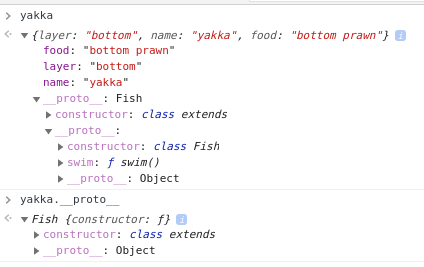
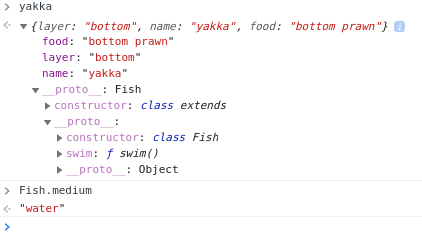
update

diff --git a/public/decorator.html b/public/decorator.html
@@ -5,8 +5,16 @@
         <pre>
             yakka is an instance of Fish
             Fish is an class object, and has constructor, which has been modified/extended by decorator
-            a new  food  field/property has been added, referring another original field 
-            all fields/properties are defiend at instance level, which is the same as @babel/plugin-transform-class-properties
+
+            Fish class object doesn't hold anything:
+               1. its properties are defined at instance level
+                  this is the same as @babel/plugin-transform-class-properties 
+               2. its methods are defiend in it's prototype
+               3. its static properties are defined somewhere else;
+
+
+            a new food property has been added, referring to another original field 
+       
         </pre>
         <img src="/class%20decorator.png"/>
         <script src="/decorator.js">

diff --git a/public/decorator.js b/public/decorator.js
@@ -22,14 +22,15 @@ let Fish = class Fish {
         this.name = name;
     }
     swim() {
-        console.log('all fish can swim');
+        console.log("all fish can swim");
     }
 };
+Fish.medium = "water";
 Fish = __decorate([
     ExtendFish,
     __metadata("design:paramtypes", [String])
 ], Fish);
-const yakka = new Fish('yakka');
+const yakka = new Fish("yakka");
 debugger;
 console.log(yakka);
 console.log(yakka.__proto__);

diff --git a/public/decorator.ts b/public/decorator.ts
@@ -8,6 +8,7 @@ function ExtendFish(constructor: typeof Fish) {
 class Fish {
   name: string;
   layer = "bottom";
+  static medium = "water";
   swim() {
     console.log("all fish can swim");
   }
@@ -17,6 +18,5 @@ class Fish {
 }
 
 const yakka = new Fish("yakka");
-debugger
 console.log(yakka);
 console.log(yakka.__proto__);
